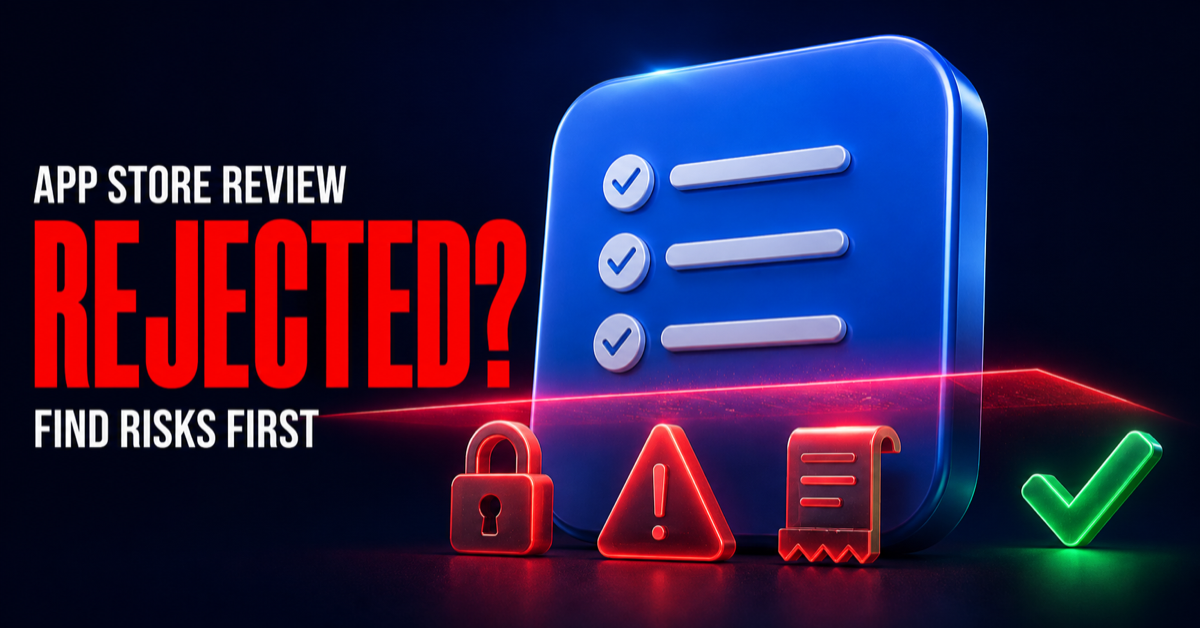
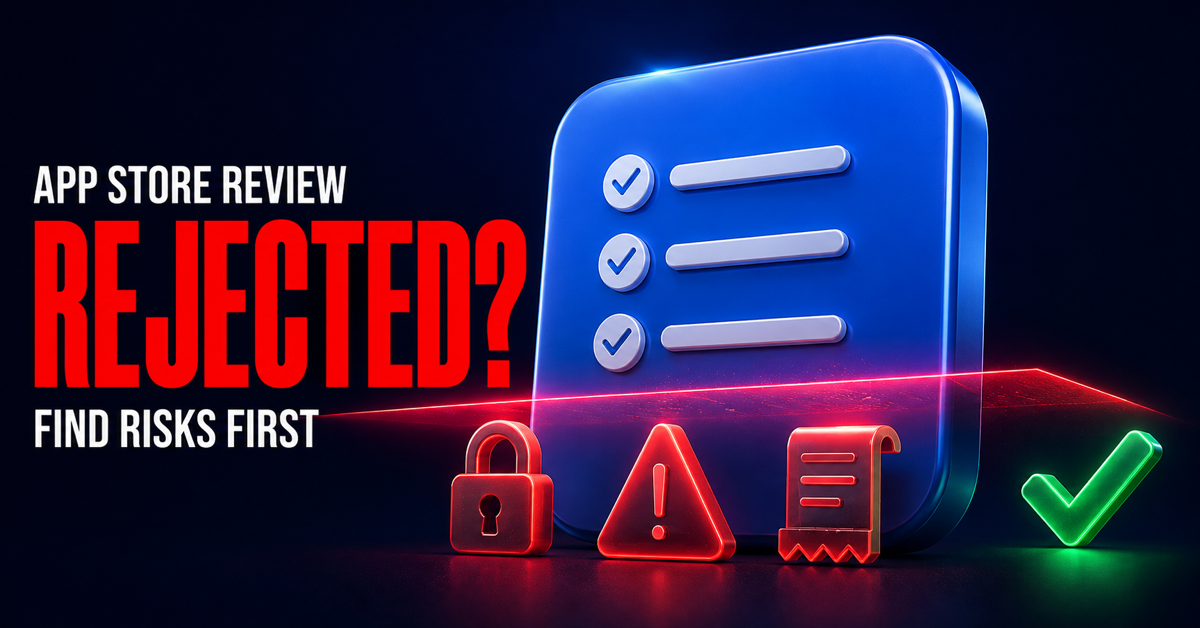
Address 3D creative review feedback

diff --git a/site/guides/will-apple-reject-ai-built-apps/index.html b/site/guides/will-apple-reject-ai-built-apps/index.html
@@ -16,14 +16,14 @@
   <meta property="og:image" content="https://elxmaj.github.io/app-store-review-skill/assets/x-app-review-preflight-v2.png">
   <meta property="og:image:width" content="1200">
   <meta property="og:image:height" content="628">
-  <meta property="og:image:alt" content="Glossy blue app tile passing through a red review scan with privacy, purchase, and warning symbols">
+  <meta property="og:image:alt" content="3D App Store Review graphic reading ‘REJECTED? Find risks first,’ with a blue checklist tile crossing a red scan past privacy, warning, and purchase symbols toward a green check">
   <meta property="article:published_time" content="2026-09-02">
-  <meta property="article:modified_time" content="2026-09-02">
+  <meta property="article:modified_time" content="2026-09-04">
   <meta name="twitter:card" content="summary_large_image">
   <meta name="twitter:title" content="Will Apple reject an AI-built app?">
   <meta name="twitter:description" content="A source-based reading of App Review Guidelines 4.2.6 and 4.3.">
   <meta name="twitter:image" content="https://elxmaj.github.io/app-store-review-skill/assets/x-app-review-preflight-v2.png">
-  <meta name="twitter:image:alt" content="Glossy blue app tile passing through a red review scan with privacy, purchase, and warning symbols">
+  <meta name="twitter:image:alt" content="3D App Store Review graphic reading ‘REJECTED? Find risks first,’ with a blue checklist tile crossing a red scan past privacy, warning, and purchase symbols toward a green check">
   <link rel="stylesheet" href="/app-store-review-skill/styles.css">
   <script type="application/ld+json">
   {
@@ -35,7 +35,7 @@
         "headline": "Will Apple reject an AI-built app? What Guidelines 4.2.6 and 4.3 actually say",
         "description": "A source-based explanation of the App Store review risks that apply to AI-built iOS apps.",
         "datePublished": "2026-09-02",
-        "dateModified": "2026-09-02",
+        "dateModified": "2026-09-04",
         "mainEntityOfPage": "https://elxmaj.github.io/app-store-review-skill/guides/will-apple-reject-ai-built-apps/",
         "image": "https://elxmaj.github.io/app-store-review-skill/assets/x-app-review-preflight-v2.png",
         "author": {

diff --git a/site/index.html b/site/index.html
@@ -16,12 +16,12 @@
   <meta property="og:image" content="https://elxmaj.github.io/app-store-review-skill/assets/x-app-review-preflight-v2.png">
   <meta property="og:image:width" content="1200">
   <meta property="og:image:height" content="628">
-  <meta property="og:image:alt" content="Glossy blue app tile passing through a red review scan with privacy, purchase, and warning symbols">
+  <meta property="og:image:alt" content="3D App Store Review graphic reading ‘REJECTED? Find risks first,’ with a blue checklist tile crossing a red scan past privacy, warning, and purchase symbols toward a green check">
   <meta name="twitter:card" content="summary_large_image">
   <meta name="twitter:title" content="Find App Store Review risks before submission">
   <meta name="twitter:description" content="A read-only preflight for iOS submissions, rejection recovery, and product-depth risks.">
   <meta name="twitter:image" content="https://elxmaj.github.io/app-store-review-skill/assets/x-app-review-preflight-v2.png">
-  <meta name="twitter:image:alt" content="Glossy blue app tile passing through a red review scan with privacy, purchase, and warning symbols">
+  <meta name="twitter:image:alt" content="3D App Store Review graphic reading ‘REJECTED? Find risks first,’ with a blue checklist tile crossing a red scan past privacy, warning, and purchase symbols toward a green check">
   <link rel="stylesheet" href="/app-store-review-skill/styles.css">
   <script type="application/ld+json">
   {

diff --git a/scripts/tests/test_pages_site.py b/scripts/tests/test_pages_site.py
@@ -16,8 +16,9 @@ X_CAMPAIGN_DOC = ROOT / "docs" / "launch" / "2026-09-03-x-app-review-campaign.md
 X_CREATIVE_FILENAME = "x-app-review-preflight-v2.png"
 X_CREATIVE_WEB_PATH = f"/app-store-review-skill/assets/{X_CREATIVE_FILENAME}"
 X_CREATIVE_ALT = (
-    "Glossy blue app tile passing through a red review scan with privacy, "
-    "purchase, and warning symbols"
+    "3D App Store Review graphic reading ‘REJECTED? Find risks first,’ with a "
+    "blue checklist tile crossing a red scan past privacy, warning, and purchase "
+    "symbols toward a green check"
 )
 X_CREATIVE = SITE / "assets" / X_CREATIVE_FILENAME
 
@@ -157,11 +158,15 @@ class PagesSiteTests(unittest.TestCase):
         self.assertIn("Last checked against Apple’s guidelines: September 2, 2026", guide)
         self.assertIn("does not guarantee approval", guide)
         self.assertNotIn("Not because a coding assistant wrote the source", guide)
+        self.assertIn(
+            '<meta property="article:modified_time" content="2026-09-04">',
+            guide,
+        )
 
         nodes = graph_nodes(json_ld_documents(guide))
         article = next(node for node in nodes if node["@type"] == "Article")
         self.assertEqual("2026-09-02", article["datePublished"])
-        self.assertEqual("2026-09-02", article["dateModified"])
+        self.assertEqual("2026-09-04", article["dateModified"])
         self.assertEqual(expected_url, article["mainEntityOfPage"])
 
     def test_crawl_and_llm_discovery_files_use_canonical_urls(self):
@@ -343,8 +348,15 @@ class PagesSiteTests(unittest.TestCase):
 
     def test_x_campaign_creative_matches_declared_png_contract(self):
         self.assertTrue(X_CREATIVE.is_file(), f"{X_CREATIVE.relative_to(ROOT)} is missing")
-        self.assertEqual((1200, 628), png_dimensions(X_CREATIVE))
+        dimensions = png_dimensions(X_CREATIVE)
+        self.assertEqual((1200, 628), dimensions)
         self.assertLessEqual(X_CREATIVE.stat().st_size, 5_000_000)
+        xmp_height = re.search(
+            rb"<exif:PixelYDimension>(\d+)</exif:PixelYDimension>",
+            X_CREATIVE.read_bytes(),
+        )
+        if xmp_height:
+            self.assertEqual(str(dimensions[1]).encode(), xmp_height.group(1))
 
     def test_x_campaign_markdown_matches_json_source_of_truth(self):
         payload = json.loads(read(X_CAMPAIGN))

diff --git a/docs/launch/2026-09-03-x-app-review-campaign.md b/docs/launch/2026-09-03-x-app-review-campaign.md
@@ -67,7 +67,7 @@ Use one ad group so the small budget is not fragmented. Launch all three creativ
 
 - Asset: `/app-store-review-skill/assets/x-app-review-preflight-v2.png`
 - Required size: 1200 x 628 PNG, under 5 MB
-- Alt text: “Glossy blue app tile passing through a red review scan with privacy, purchase, and warning symbols”
+- Alt text: “3D App Store Review graphic reading ‘REJECTED? Find risks first,’ with a blue checklist tile crossing a red scan past privacy, warning, and purchase symbols toward a green check”
 - Do not add Apple logos, App Store badges, device mockups, approval seals, fake testimonials, or claims that imply endorsement.
 
 The final image is original 3D artwork generated without external visual references. Three distinct concepts were compared at 600 x 314 feed size; the selected scan concept preserved the clearest hook, symbols, and red-to-green story, then it was resized to the exact X card contract. The app tile is intentionally neutral and does not reproduce or alter Apple artwork.
